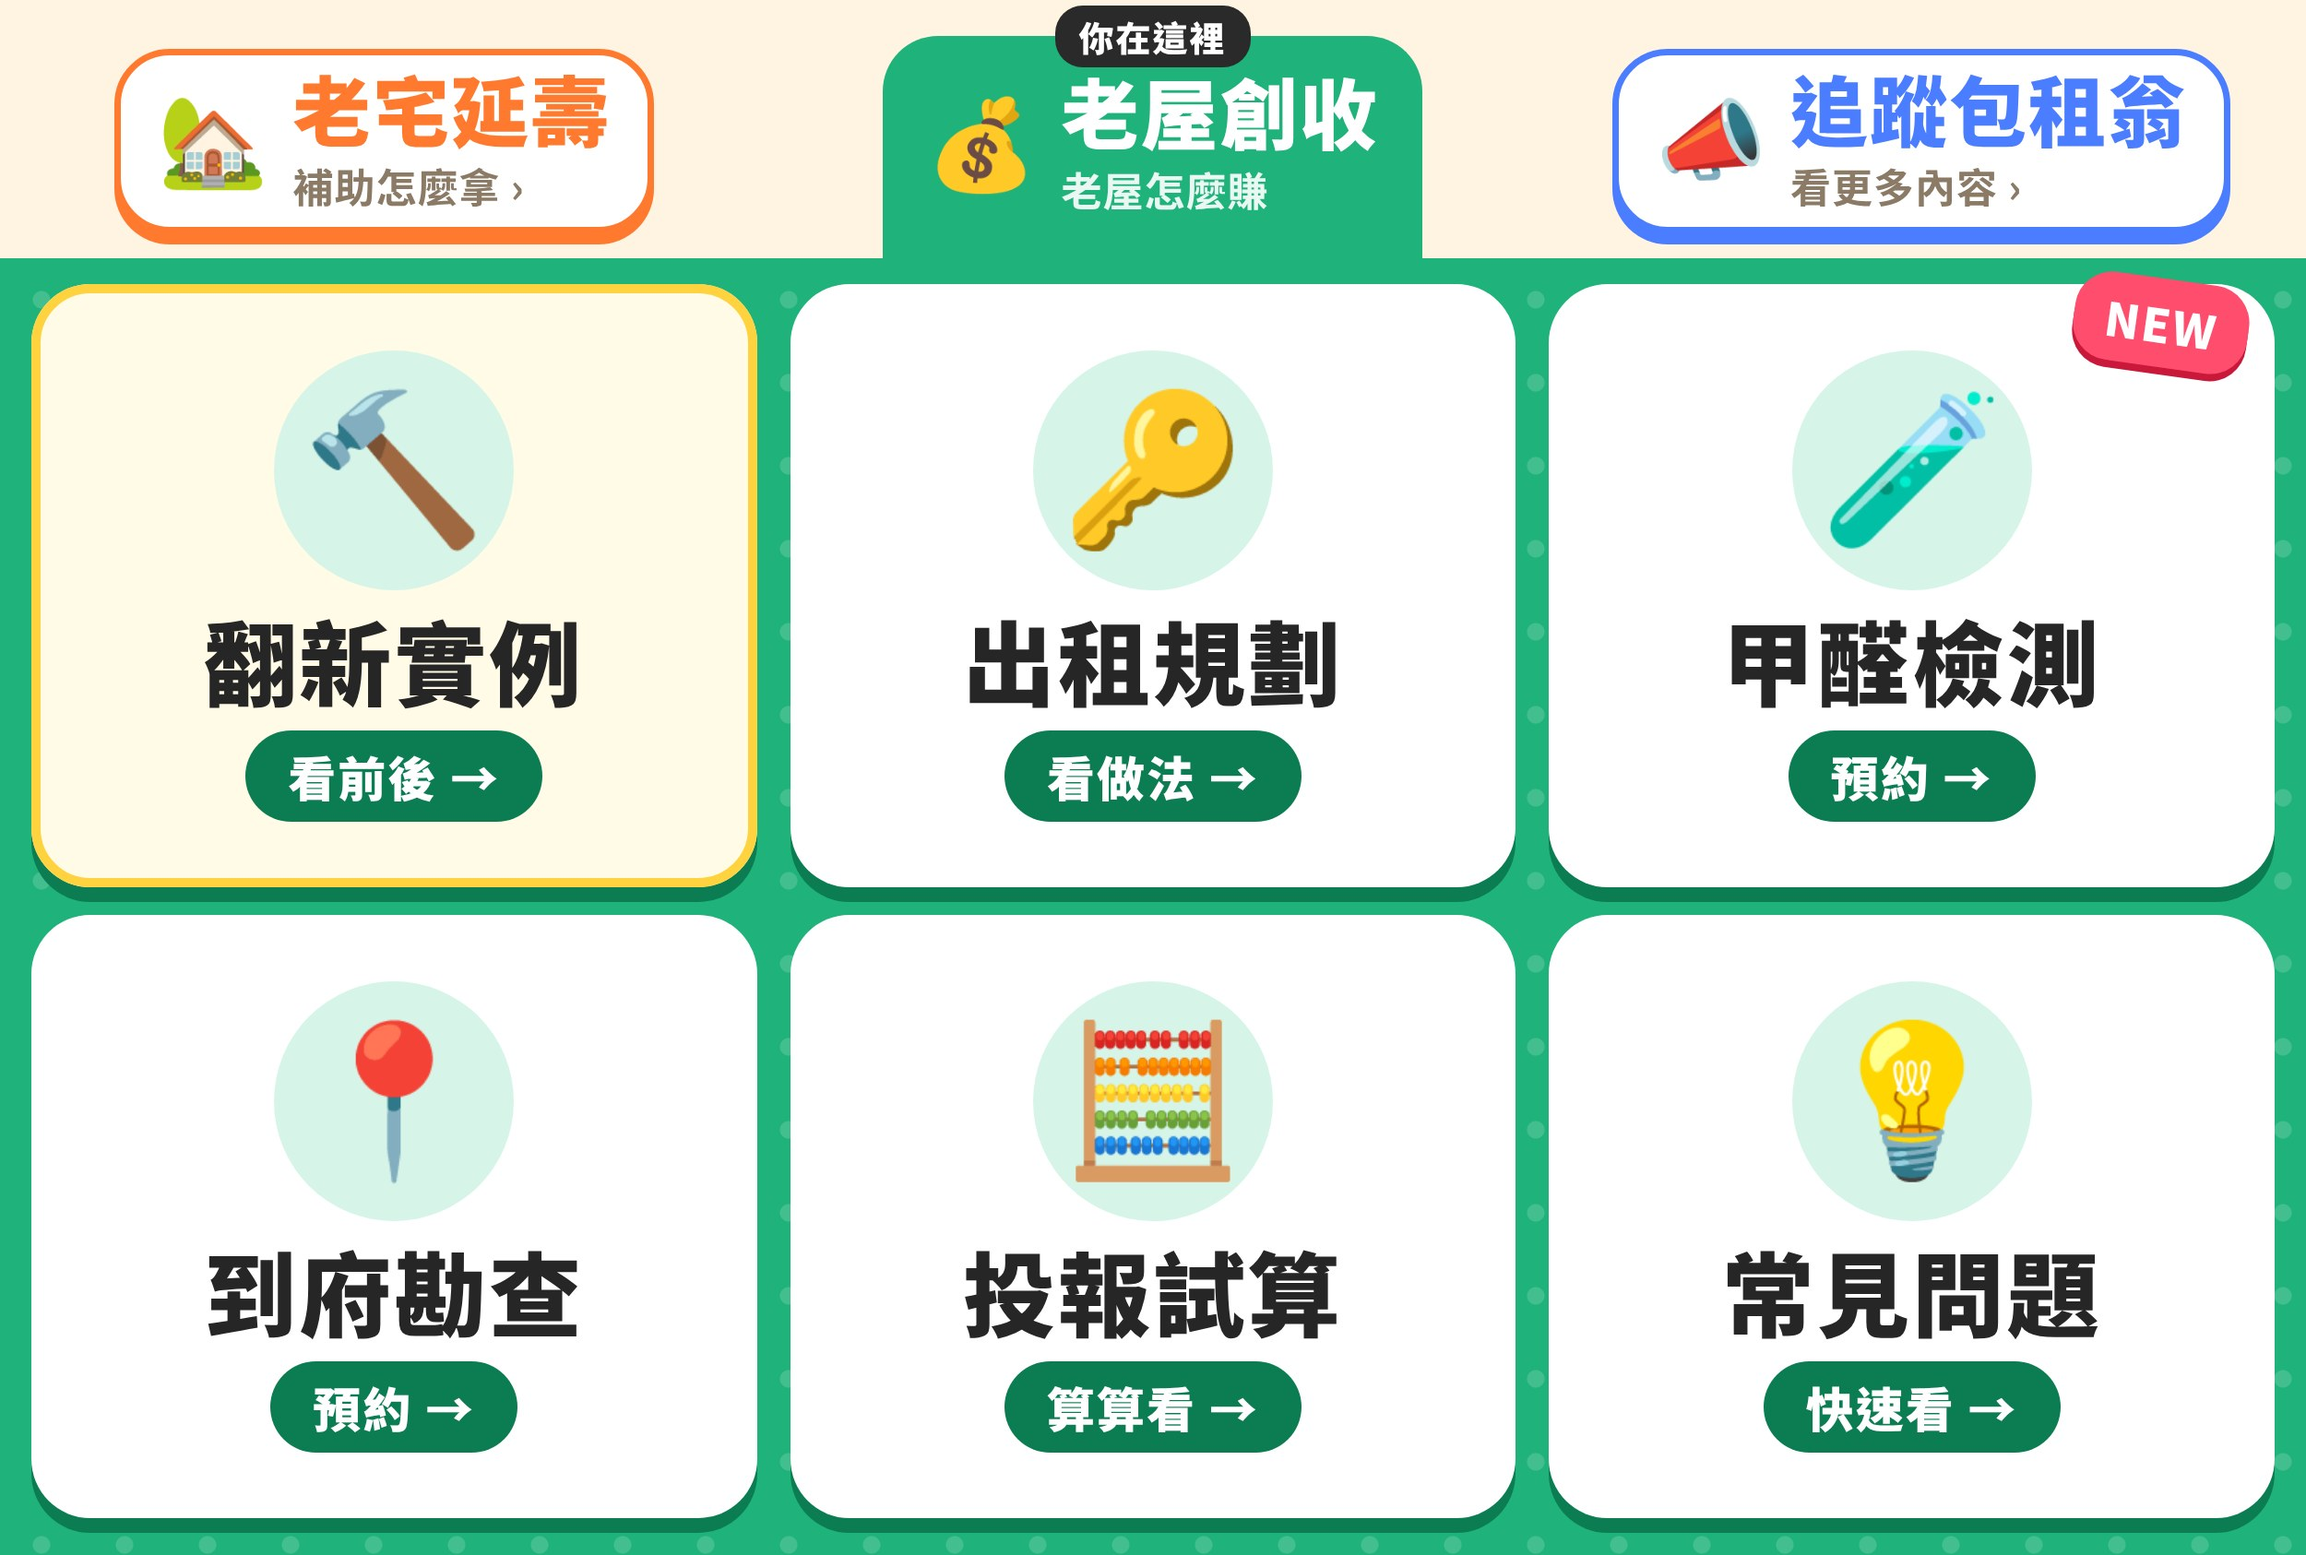
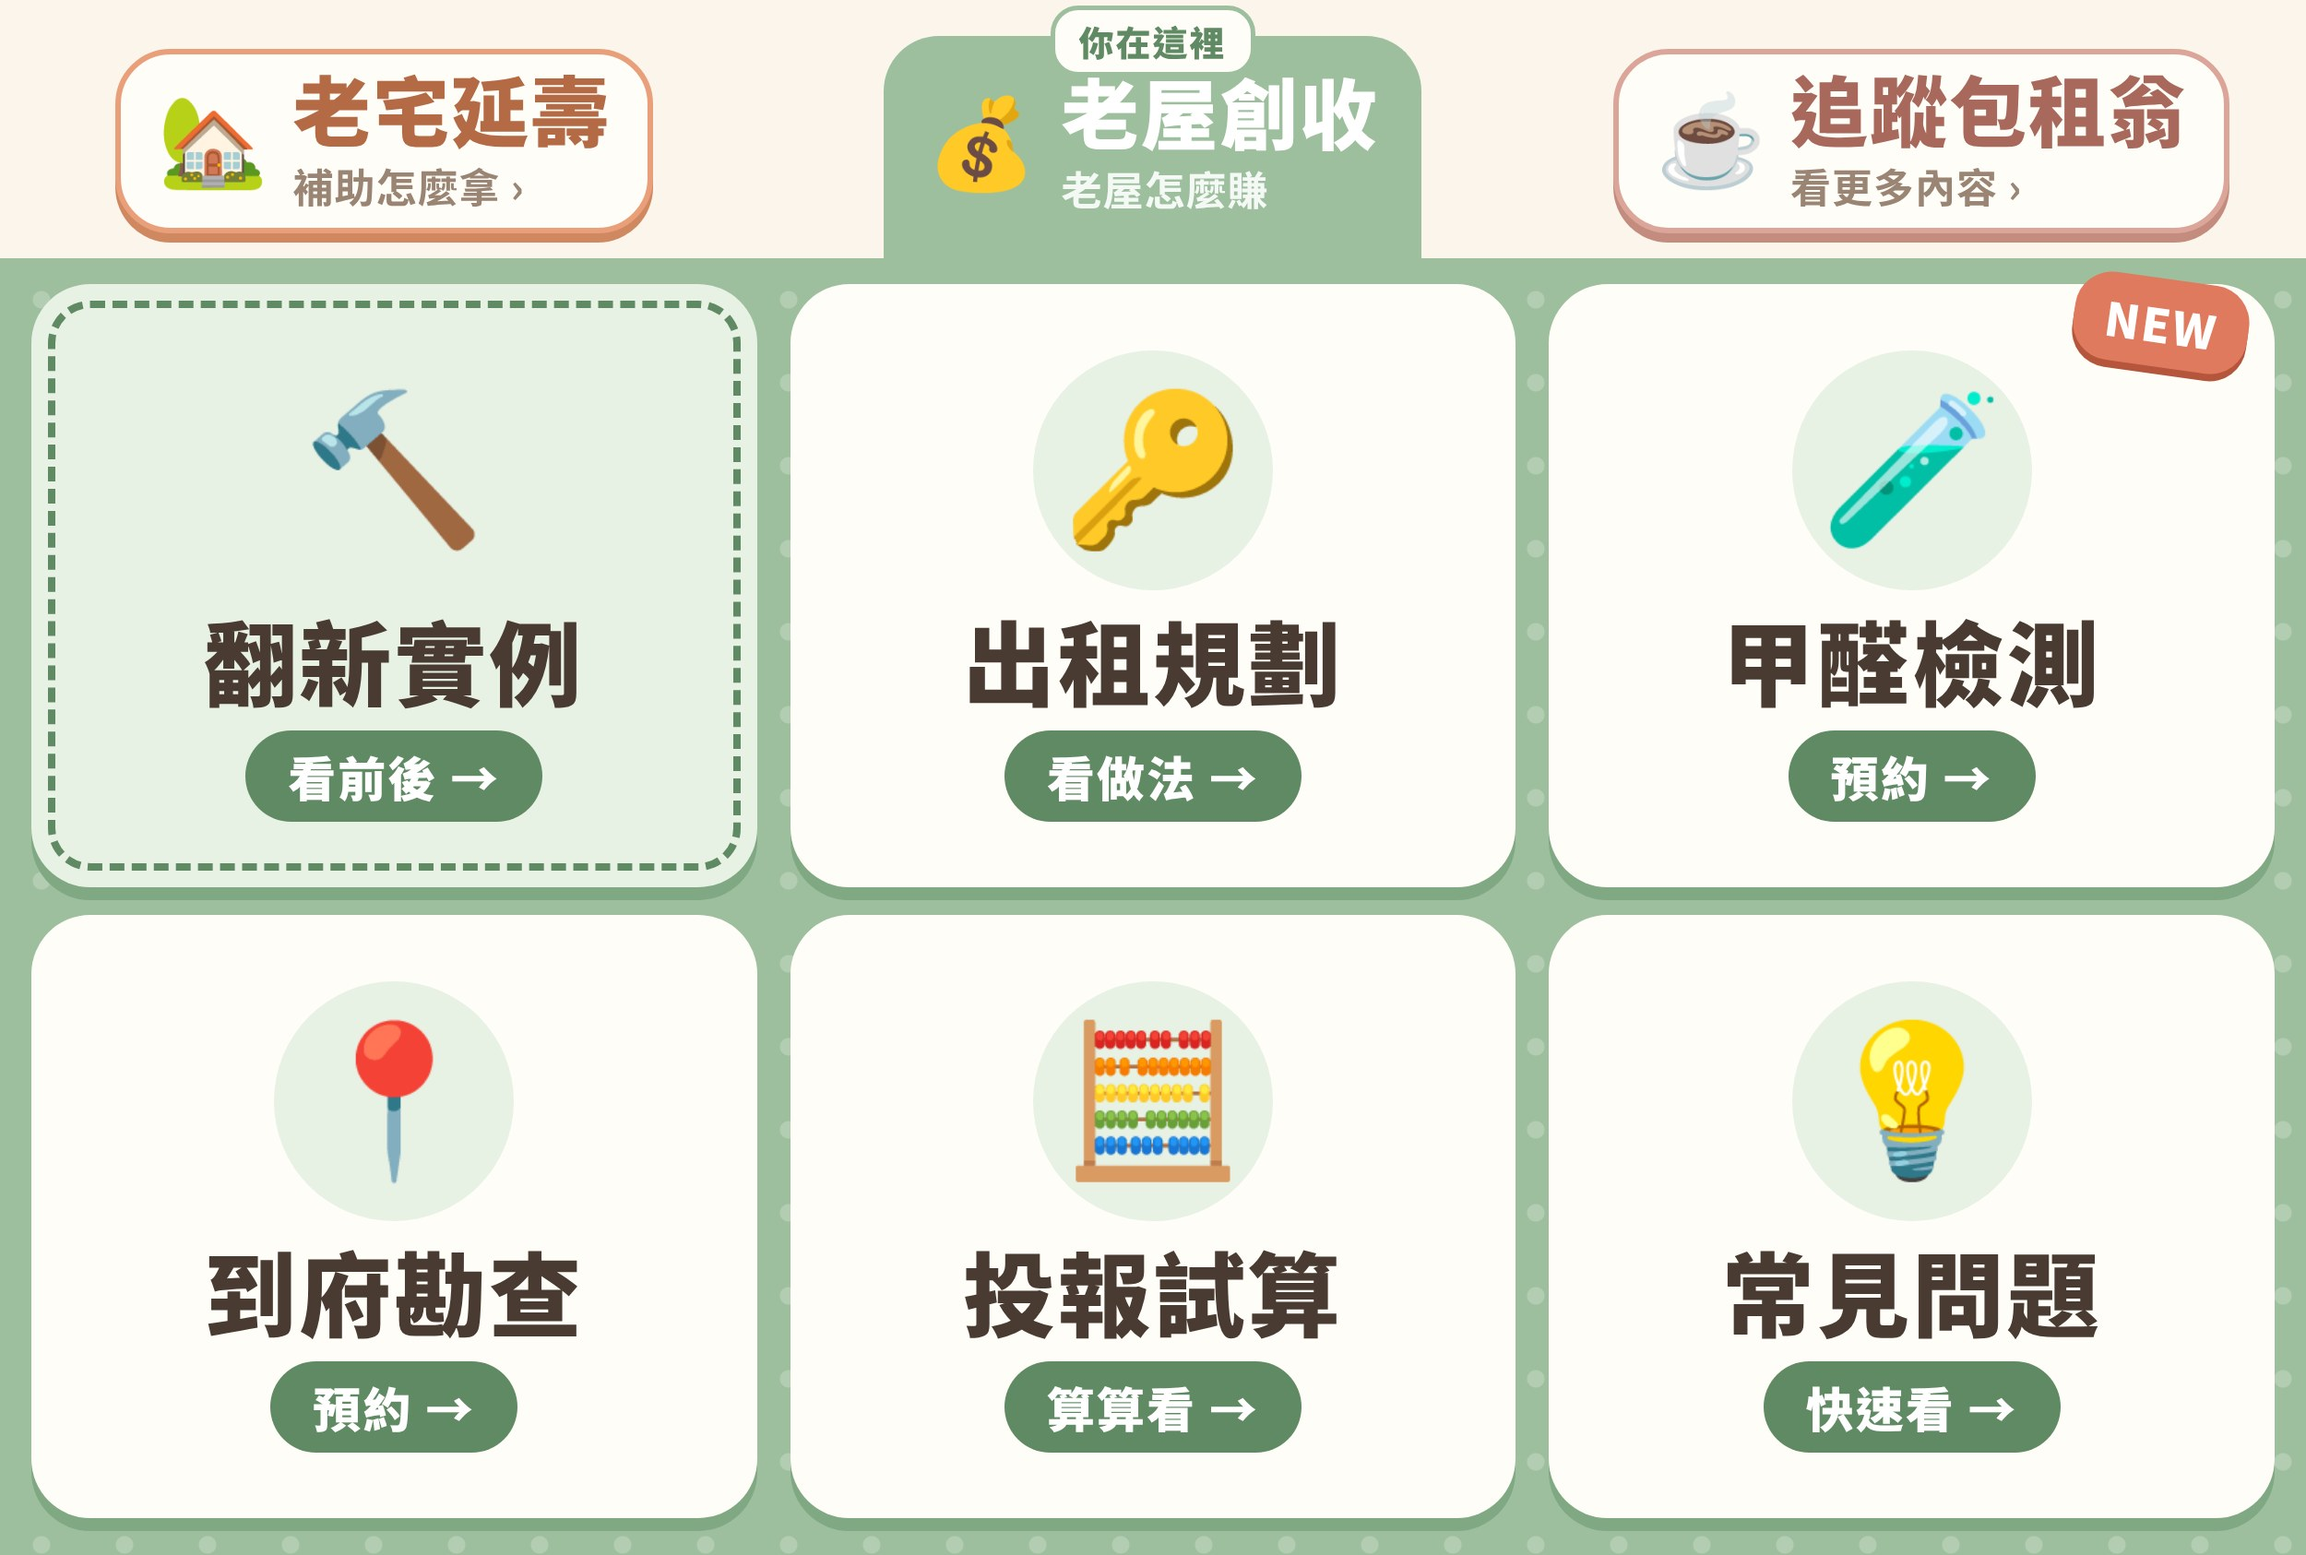
圖文選單改溫馨暖色系：杏橘、鼠尾草綠、奶茶玫瑰
Claude-Session: https://claude.ai/code/session_019eugoX1H4dYyhyKS7AuEiA

Changed region(s): [[0.0, 0.0, 1.0, 1.0]]

diff --git a/line-richmenu/design.html b/line-richmenu/design.html
@@ -14,42 +14,42 @@
 <style>
   *{box-sizing:border-box;margin:0;padding:0}
   html,body{width:2500px;height:1686px;overflow:hidden;
-    font-family:"Noto Sans TC","Noto Color Emoji",sans-serif;color:#2a2a2a;background:#fff}
+    font-family:"Noto Sans TC","Noto Color Emoji",sans-serif;color:#4a3b32;background:#fbf5ec}
   .emo{font-family:"Noto Color Emoji";line-height:1}
 
   /* ===== 分頁列 ===== */
-  .tabs{position:absolute;left:0;top:0;width:2500px;height:280px;display:flex;background:#fff4e2}
+  .tabs{position:absolute;left:0;top:0;width:2500px;height:280px;display:flex;background:#fbf5ec}
   .tab{position:relative;width:833px;height:280px;display:flex;align-items:center;justify-content:center;gap:30px;padding-top:26px}
   .tab:last-child{width:834px}
   .tab .box{display:flex;align-items:center;gap:26px;padding:0 40px;height:200px;border-radius:60px;
-    background:#fff;border:7px solid var(--c);box-shadow:0 12px 0 var(--c)}
+    background:#fffdf8;border:6px solid var(--c);box-shadow:0 10px 0 var(--soft2)}
   .tab .emo{font-size:96px}
-  .tab .nm{font-size:84px;font-weight:900;color:var(--c);letter-spacing:2px;line-height:1.05}
-  .tab .sub{font-size:44px;font-weight:700;color:#8a7a66;margin-top:8px;letter-spacing:1px}
+  .tab .nm{font-size:84px;font-weight:900;color:var(--dark);letter-spacing:2px;line-height:1.05}
+  .tab .sub{font-size:44px;font-weight:700;color:#9a8574;margin-top:8px;letter-spacing:1px}
   /* 目前所在分頁：實心 + 往下接到內容區 */
   .tab.on .box{background:var(--c);box-shadow:none;height:254px;margin-top:26px;border-radius:60px 60px 0 0;padding-bottom:26px}
   .tab.on .nm{color:#fff}
   .tab.on .sub{color:rgba(255,255,255,.9)}
   .tab.on .box{border-bottom:none}
-  .here{position:absolute;top:6px;left:50%;transform:translateX(-50%);background:#2a2a2a;color:#fff;
+  .here{position:absolute;top:6px;left:50%;transform:translateX(-50%);background:#fffdf8;color:var(--dark);border:5px solid var(--c);
     font-size:38px;font-weight:900;padding:6px 26px;border-radius:30px;letter-spacing:2px;z-index:3;white-space:nowrap}
 
   /* ===== 內容區 ===== */
-  .panel{position:absolute;left:0;top:280px;width:2500px;height:1406px;background:radial-gradient(rgba(255,255,255,.16) 9px,transparent 10px) 0 0/90px 90px,var(--c);
+  .panel{position:absolute;left:0;top:280px;width:2500px;height:1406px;background:radial-gradient(rgba(255,255,255,.22) 9px,transparent 10px) 0 0/90px 90px,var(--c);
     padding:28px 34px 40px;display:grid;grid-template-columns:repeat(3,1fr);grid-template-rows:repeat(2,1fr);gap:30px 36px}
   .dots{position:absolute;inset:280px 0 0 0;opacity:.13;
     background-image:radial-gradient(#fff 9px,transparent 10px);background-size:90px 90px;pointer-events:none}
-  .card{position:relative;background:#fff;border-radius:64px;box-shadow:0 16px 0 var(--dark);
+  .card{position:relative;background:#fffdf8;border-radius:64px;box-shadow:0 14px 0 var(--soft2);
     display:flex;flex-direction:column;align-items:center;justify-content:center;gap:12px;overflow:visible}
   .card .ic{width:260px;height:260px;border-radius:50%;background:var(--soft);display:flex;align-items:center;justify-content:center}
   .card .ic .emo{font-size:160px}
-  .card .t{font-size:100px;font-weight:900;color:#262626;letter-spacing:3px;line-height:1.1;margin-top:8px}
+  .card .t{font-size:100px;font-weight:900;color:#4a3b32;letter-spacing:3px;line-height:1.1;margin-top:8px}
   .card .go{margin-top:10px;font-size:52px;font-weight:900;color:#fff;background:var(--dark);
     padding:12px 46px;border-radius:50px;letter-spacing:2px}
-  .card.hot{background:#fffbe6;outline:10px solid #ffd23f;outline-offset:-10px}
-  .tag{position:absolute;top:-6px;right:28px;background:#ff4d6d;color:#fff;font-size:50px;font-weight:900;
-    padding:12px 34px;border-radius:40px;transform:rotate(8deg);box-shadow:0 8px 0 #c9183a;letter-spacing:2px}
-  .tag.y{background:#ffd23f;color:#5a3d00;box-shadow:0 8px 0 #d9a400}
+  .card.hot{background:var(--soft);outline:8px dashed var(--dark);outline-offset:-26px}
+  .tag{position:absolute;top:-6px;right:28px;background:#e07a5f;color:#fff;font-size:50px;font-weight:900;
+    padding:12px 34px;border-radius:40px;transform:rotate(8deg);box-shadow:0 8px 0 #b5553c;letter-spacing:2px}
+  .tag.y{background:#7fa886;color:#fff;box-shadow:0 8px 0 #557a5c}
 </style>
 </head>
 <body>
@@ -59,9 +59,9 @@
 <script>
 // ===== 三個分頁（順序要跟 richmenu.gs 一致）=====
 const TABS = [
-  {emo:'🏡', nm:'老宅延壽',   sub:'補助怎麼拿', c:'#ff7a2f', dark:'#c4500f', soft:'#ffe6d3'},
-  {emo:'💰', nm:'老屋創收',   sub:'老屋怎麼賺', c:'#1fb27a', dark:'#0c7d52', soft:'#d6f5e8'},
-  {emo:'📣', nm:'追蹤包租翁', sub:'看更多內容', c:'#4a7dff', dark:'#2450c4', soft:'#dde7ff'},
+  {emo:'🏡', nm:'老宅延壽',   sub:'補助怎麼拿', c:'#e9a07a', dark:'#b46a45', soft:'#fbe9dc', soft2:'#d08860'},
+  {emo:'💰', nm:'老屋創收',   sub:'老屋怎麼賺', c:'#9dbf9e', dark:'#5f8a63', soft:'#e7f1e4', soft2:'#7fa883'},
+  {emo:'☕', nm:'追蹤包租翁', sub:'看更多內容', c:'#dba59a', dark:'#a8685c', soft:'#f8e6e0', soft2:'#c48b7f'},
 ];
 // 每頁 6 顆：左上→右上→左下→右下；go = 按了會怎樣
 const PAGES = [
@@ -83,10 +83,10 @@ const PAGES = [
   ],
   [
     {e:'🧵', t:'Threads',    go:'每日乾貨 →', hot:true},
-    {e:'👍', t:'Facebook',   go:'按讚 →'},
+    {e:'💬', t:'Facebook',   go:'按讚 →'},
     {e:'▶', t:'YouTube',    go:'看影片 →'},
     {e:'📸', t:'Instagram',  go:'追蹤 →'},
-    {e:'🌐', t:'官方網站',   go:'逛逛 →'},
+    {e:'🏡', t:'官方網站',   go:'逛逛 →'},
     {e:'🎁', t:'分享好友',   go:'推薦 →', tag:'揪團', y:true},
   ],
 ];
@@ -96,9 +96,10 @@ const cur = TABS[n];
 document.documentElement.style.setProperty('--c', cur.c);
 document.documentElement.style.setProperty('--dark', cur.dark);
 document.documentElement.style.setProperty('--soft', cur.soft);
+document.documentElement.style.setProperty('--soft2', cur.soft2);
 
 document.getElementById('tabs').innerHTML = TABS.map((t,i)=>`
-  <div class="tab ${i===n?'on':''}" style="--c:${t.c}">
+  <div class="tab ${i===n?'on':''}" style="--c:${t.c};--dark:${t.dark};--soft2:${t.soft2}">
     ${i===n?'<div class="here">你在這裡</div>':''}
     <div class="box"><span class="emo">${t.emo}</span>
       <div><div class="nm">${t.nm}</div><div class="sub">${i===n?t.sub:t.sub+' ›'}</div></div></div>

diff --git a/line-richmenu/README.md b/line-richmenu/README.md
@@ -1,6 +1,6 @@
 # LINE 官方帳號｜分頁式圖文選單（包租翁 MAX HOUSE）
 
-選單上方三個分頁（橘／綠／藍），點了就切換，不用另外架伺服器。
+選單上方三個分頁（杏橘／鼠尾草綠／奶茶玫瑰，暖色溫馨風），點了就切換，不用另外架伺服器。
 每顆按鈕都有「按了會怎樣」的小標籤（例如「30秒測 →」「搶位子 →」），一看就懂：
 
 | 分頁 | 6 顆按鈕 |
